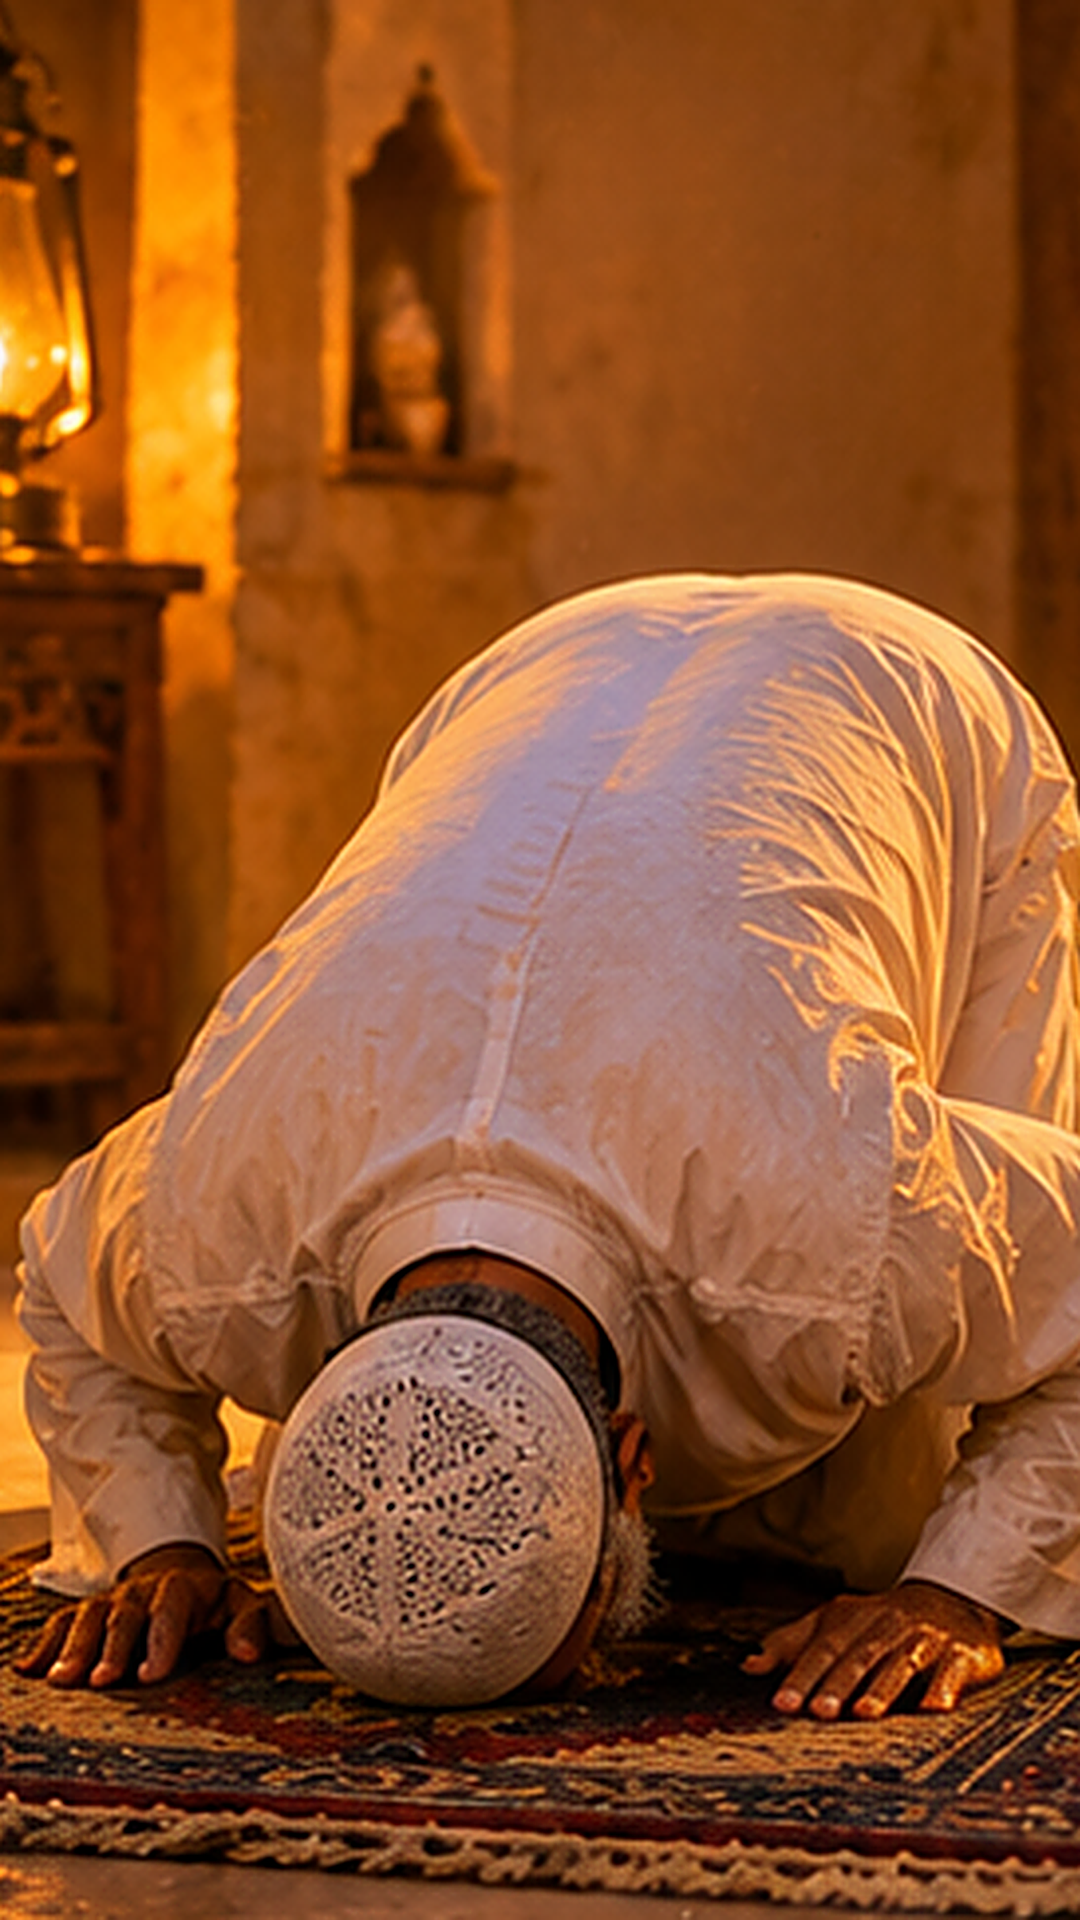
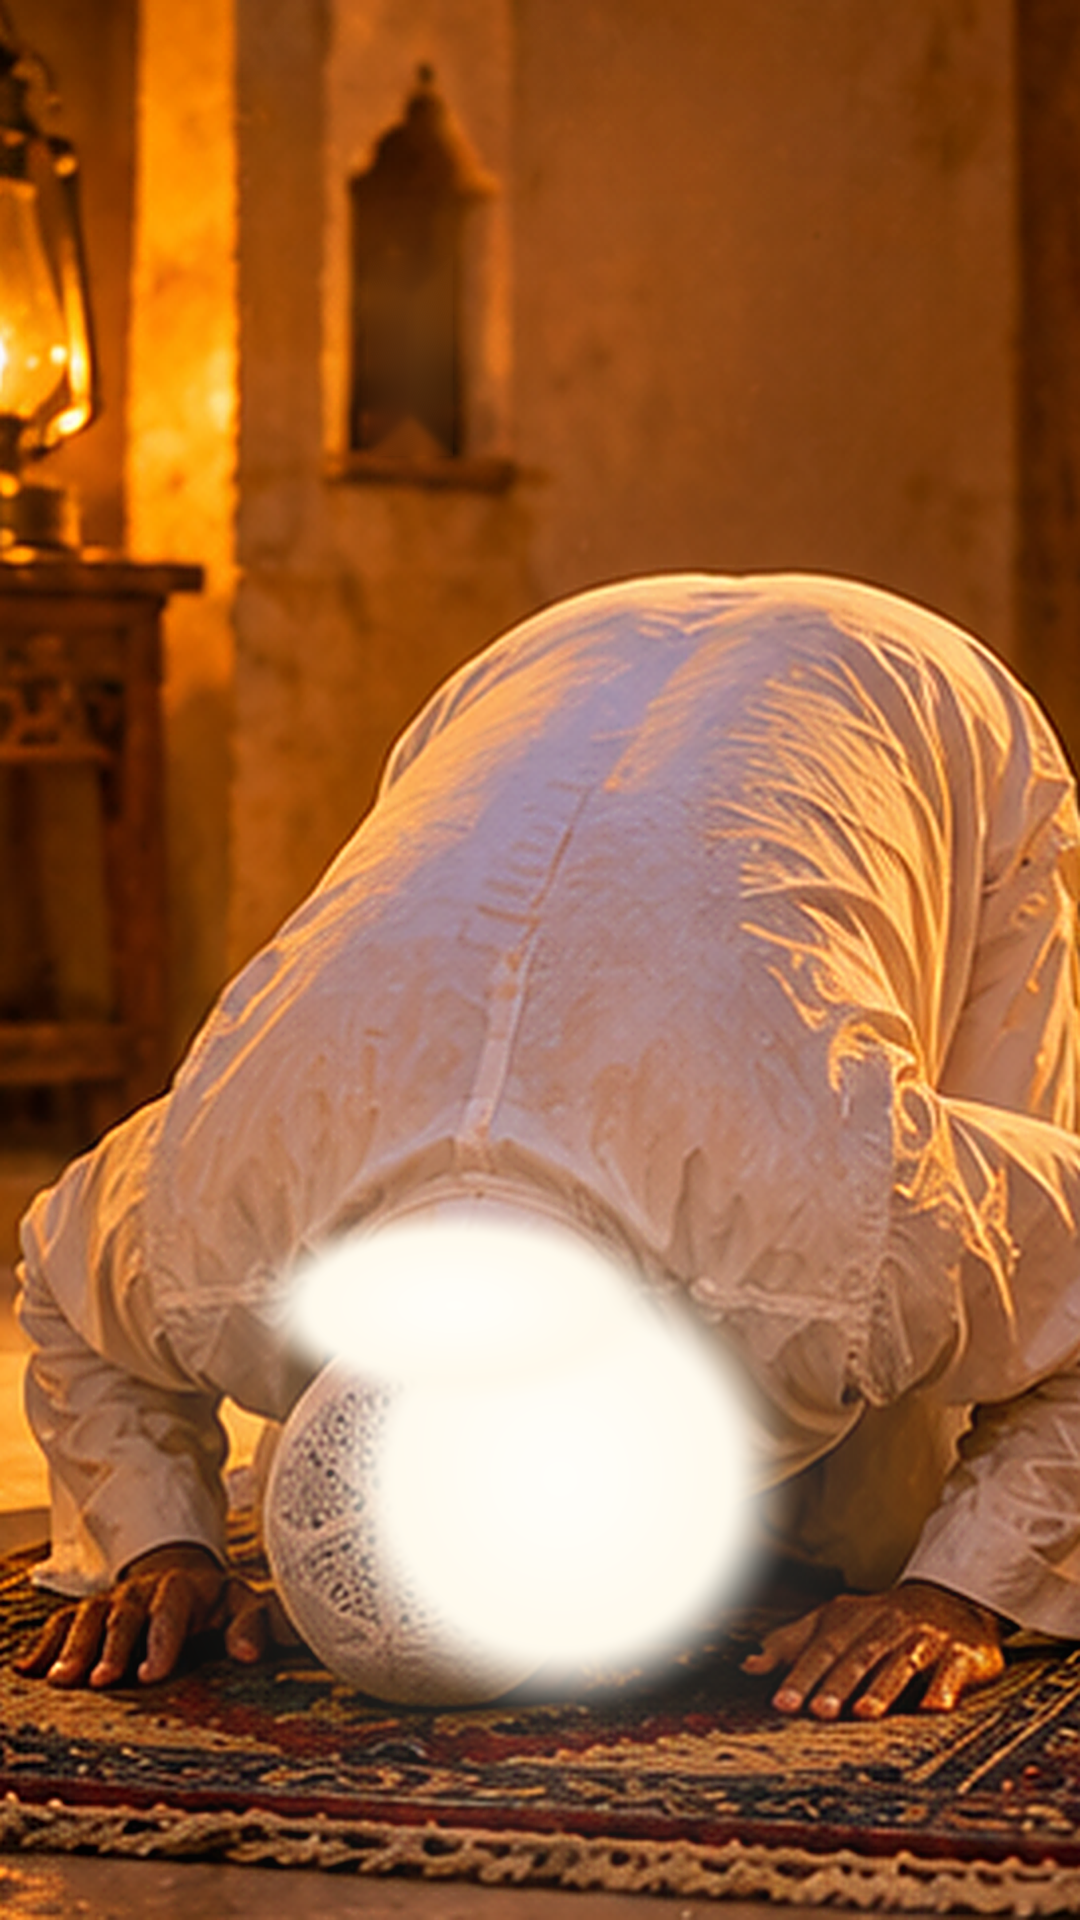
Part 7: wall flame painted out in N7S2-03, cleaned sajda picture in N7S2-06; Short 4 du'a caption addressed to Allah
Claude-Session: https://claude.ai/code/session_01GAgT6JHTKoSgF7eULv7uw6

Changed region(s): [[0.1528, 0.5938, 0.825, 0.9375], [0.3361, 0.125, 0.4278, 0.25]]

diff --git a/tools/shorts/projects/2026-11-nizam-ul-amal-7/captions.py b/tools/shorts/projects/2026-11-nizam-ul-amal-7/captions.py
@@ -46,7 +46,7 @@ CAPTIONS = [
     (917.50, 924.70, "“Or imagine that this thought is *running away* from you, in the world of imagination: this too removes it.”"),
     (925.20, 945.70, "That is another way: think, “This thought is running from me.” *Aalam-e-takhayyul* means the world of imagination, of thought. By this too the khatra is *removed*."),
     (976.20, 992.90, "Come into the *refuge* of Allah. The way to come into Allah's refuge is this: “Allah Mian, these khatrat keep coming, so many. Please *help* me and take my khatrat away. I want to come into Your *refuge*.”"),
-    (993.30, 1012.70, "When a khatra comes, say: “If these trouble us, where else will we find refuge? Save us from these khatrat; take us into *Your refuge*.” That is how it is."),
+    (993.30, 1012.70, "When a khatra comes, say: “If You leave us troubled, where else will we find refuge? Save us from these khatrat; take us into *Your refuge*.” That is how it is."),
     (1014.20, 1028.90, "“*Number 4*: saying “*hoon, hoon*”, breathe out *forcefully*, outward.” Hoon… hoon… hoon… hoon. That is what to do."),
     (1030.30, 1039.30, "To drive away khatrat, what should you do? Saying “hoon, hoon”, breathe out *forcefully*, outward."),
     (1040.10, 1055.80, "You see? Even great people are *troubled* by khatrat. What do you think? The *Awliya Allah* are troubled too; then they come into Allah's refuge, and they adopt all these methods."),
